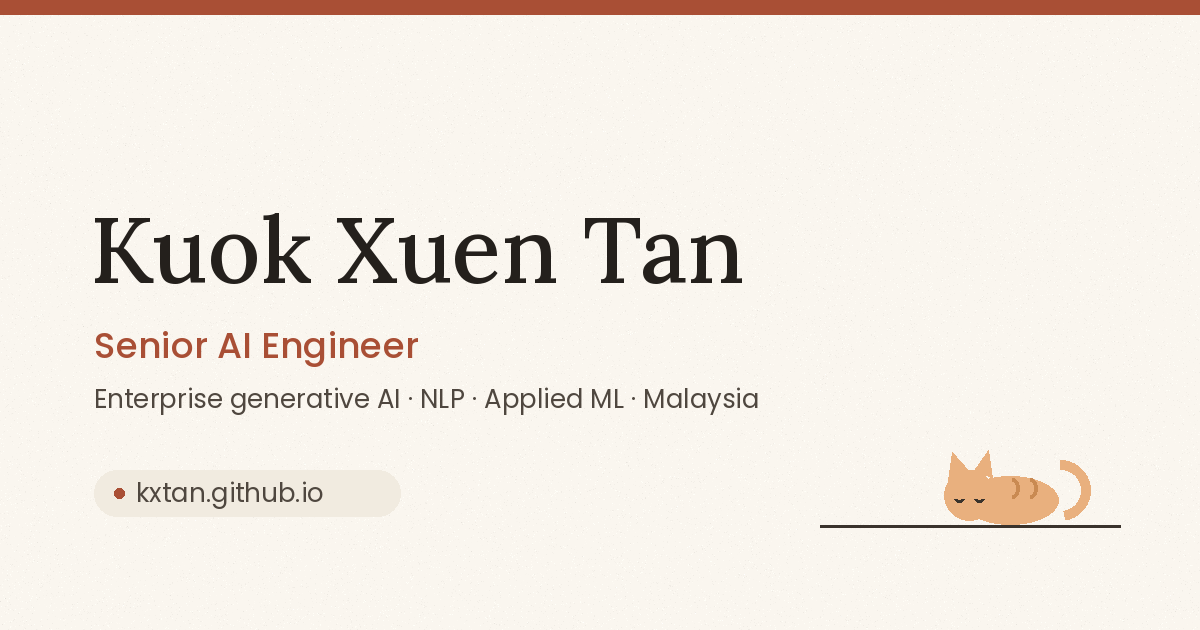
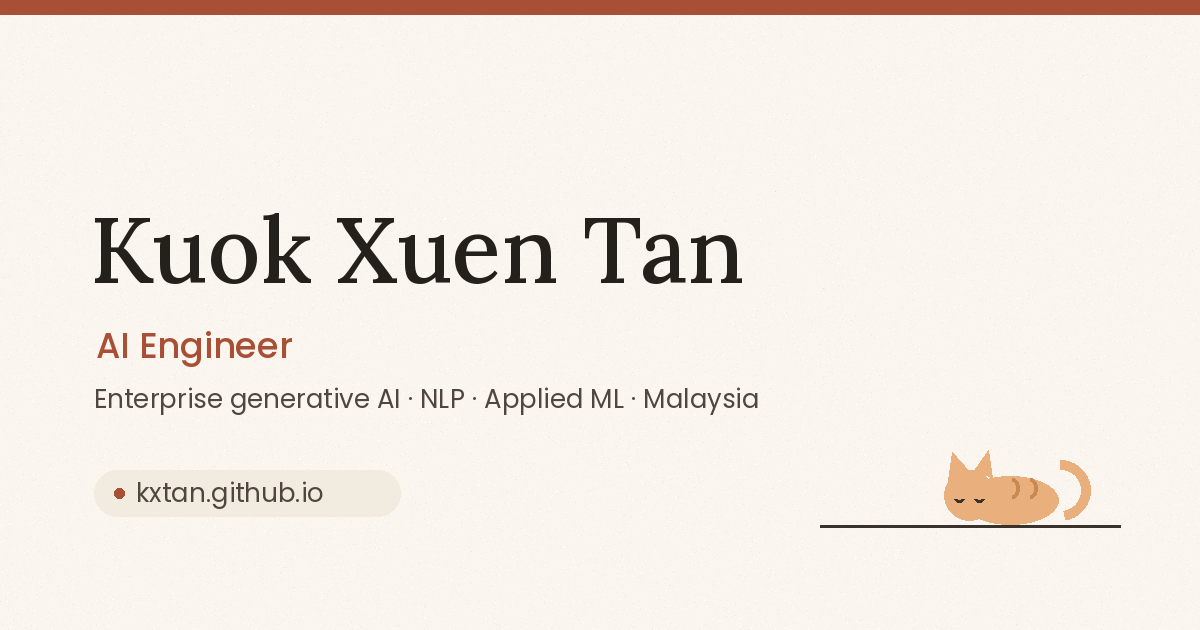
Remove seniority from title

Changed region(s): [[0.0617, 0.5127, 0.37, 0.6032]]

diff --git a/index.html b/index.html
@@ -3,7 +3,7 @@
 <head>
     <meta charset="UTF-8">
     <meta name="viewport" content="width=device-width, initial-scale=1.0, viewport-fit=cover">
-    <meta name="description" content="Kuok Xuen Tan - Senior AI Engineer based in Malaysia. Enterprise generative AI, NLP and applied machine learning.">
+    <meta name="description" content="Kuok Xuen Tan - AI Engineer based in Malaysia. Enterprise generative AI, NLP and applied machine learning.">
     <meta name="theme-color" content="#FAF6EF" media="(prefers-color-scheme: light)">
     <meta name="theme-color" content="#1A1917" media="(prefers-color-scheme: dark)">
     <title>Kuok Xuen Tan</title>
@@ -11,7 +11,7 @@
     <link rel="apple-touch-icon" href="apple-touch-icon.png">
     <!-- Share preview (LinkedIn, WhatsApp, X) -->
     <meta property="og:type" content="website">
-    <meta property="og:title" content="Kuok Xuen Tan · Senior AI Engineer">
+    <meta property="og:title" content="Kuok Xuen Tan · AI Engineer">
     <meta property="og:description" content="Enterprise generative AI, NLP and applied machine learning. Based in Malaysia.">
     <meta property="og:url" content="https://kxtan.github.io/">
     <meta property="og:image" content="https://kxtan.github.io/og-image.png">
@@ -30,7 +30,7 @@
         })();
     </script>
     <link rel="stylesheet" href="https://fonts.googleapis.com/css2?family=Fraunces:opsz,wght,SOFT@9..144,500,100&family=Inter:wght@400;500;600&family=Silkscreen&display=swap">
-    <link rel="stylesheet" href="styles.css">
+    <link rel="stylesheet" href="styles.css?v=2">
 </head>
 <body>
     <div class="container">
@@ -38,7 +38,7 @@
             <header>
                 <div class="header-text">
                     <h1>Kuok Xuen Tan</h1>
-                    <p class="subtitle">Senior AI Engineer</p>
+                    <p class="subtitle">AI Engineer</p>
                     <p class="location">Enterprise Generative AI · NLP · Applied Machine Learning · Malaysia</p>
                 </div>
                 <svg class="pixel-desk" viewBox="0 0 72 34" shape-rendering="crispEdges" role="img" aria-label="Pixel art of a desk with a monitor showing code, a steaming coffee mug, a small plant and Miso the ginger cat asleep beside it">
@@ -78,7 +78,7 @@
         <main>
             <section id="about">
                 <h2>About</h2>
-                <p>I'm a Senior AI Engineer with 8+ years of software engineering experience across generative AI, NLP, cloud-native systems and production ML applications. I'm currently building enterprise AI workflows at Microsoft on Azure OpenAI, Azure AI Foundry, Cosmos DB, .NET and React.</p>
+                <p>I'm an AI Engineer with 8+ years of software engineering experience across generative AI, NLP, cloud-native systems and production ML applications. I'm currently building enterprise AI workflows at Microsoft on Azure OpenAI, Azure AI Foundry, Cosmos DB, .NET and React.</p>
                 <p>I completed my MPhil in Artificial Intelligence at Monash University, with research on knowledge graphs and machine learning for NLP in support systems.</p>
             </section>
 
@@ -296,6 +296,6 @@
             <p>Kuok Xuen Tan</p>
         </footer>
     </div>
-    <script src="script.js"></script>
+    <script src="script.js?v=2"></script>
 </body>
 </html>
